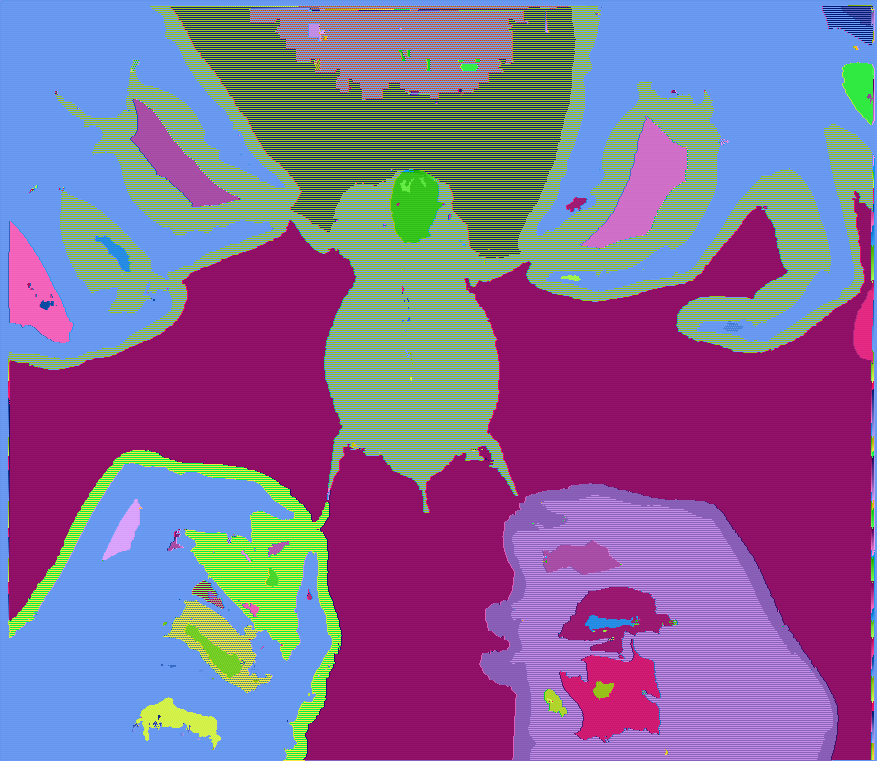
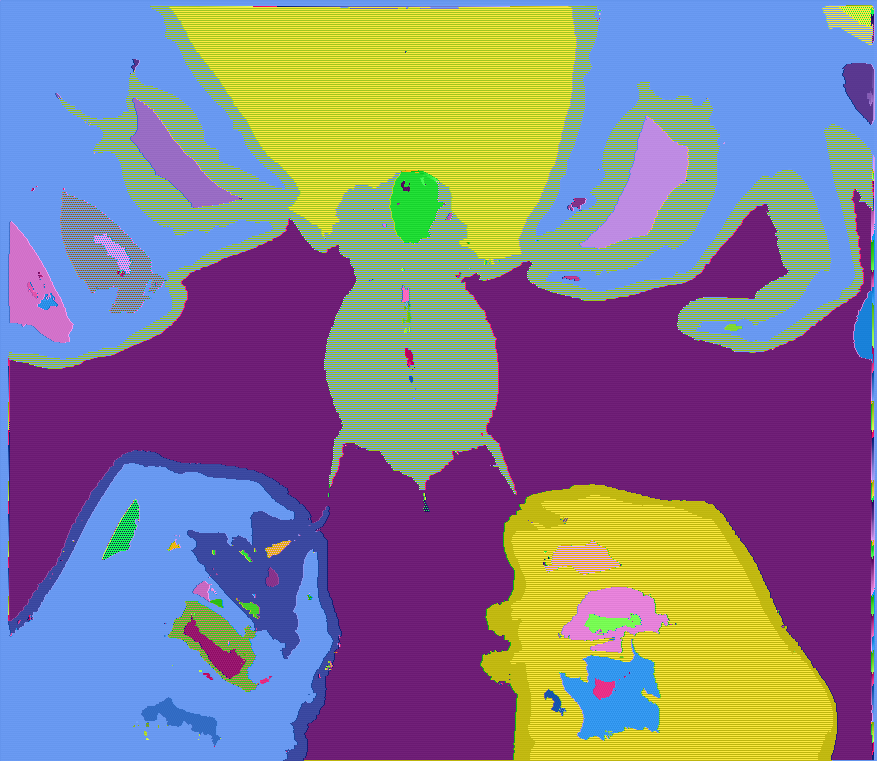
This is final one!

diff --git a/main.c b/main.c
@@ -9,8 +9,8 @@
 #define STB_IMAGE_WRITE_IMPLEMENTATION
 #include "stb_image_write.h"
 
-#define BLACK 90
-#define WHITE 170
+#define BLACK 93
+#define WHITE 167
 
 unsigned char* color_to_grey(unsigned char* Image, int w, int h, int n){
 	int i, k = 0;
